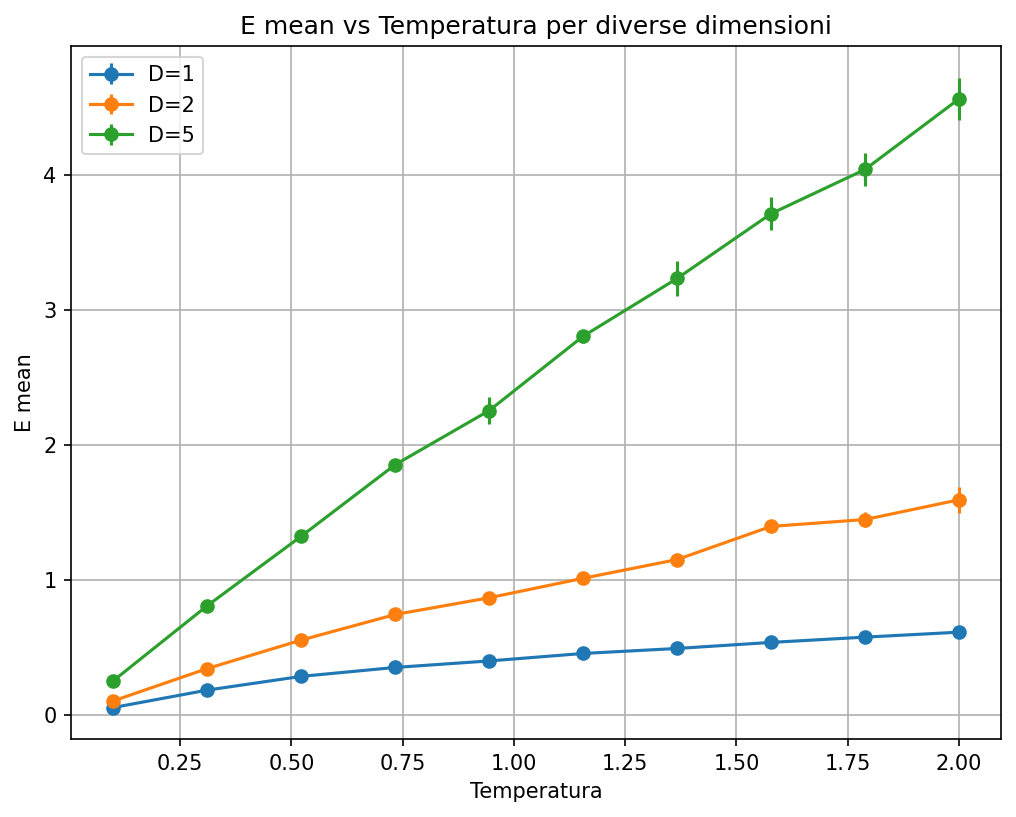
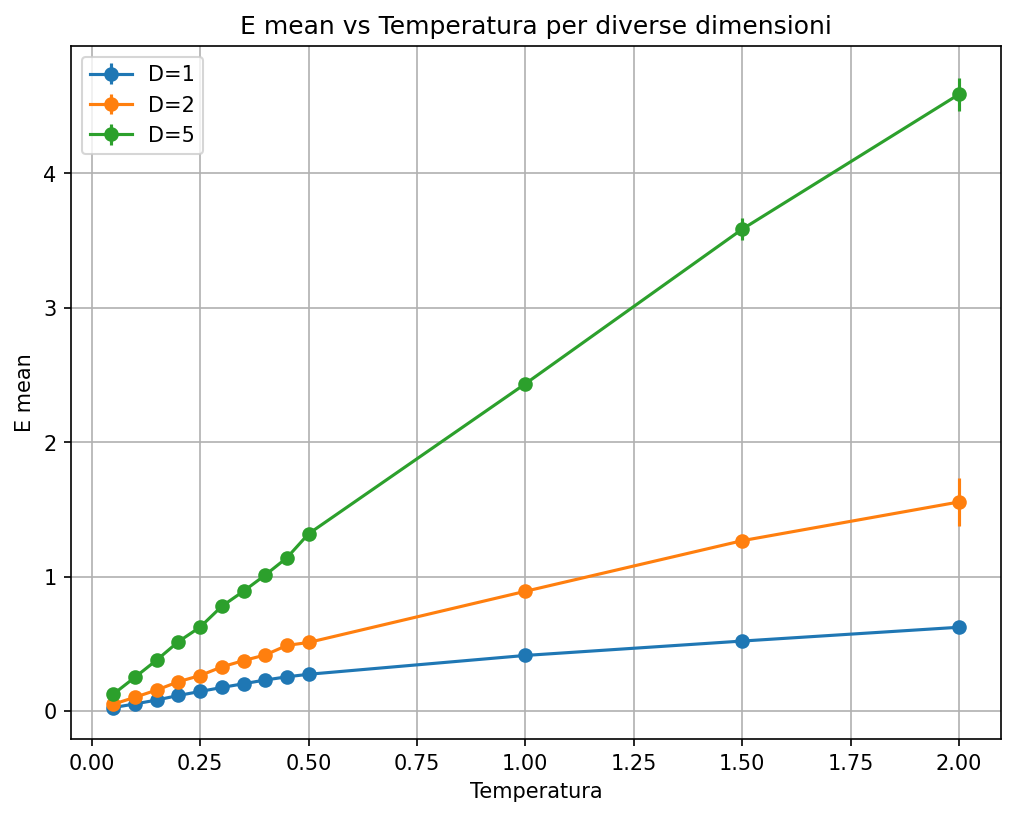
runned

diff --git a/source/main.py b/source/main.py
@@ -7,7 +7,7 @@ import jax.numpy as jnp
 
 def main():
     dimensions = [1, 2, 5]
-    temperatures = jnp.linspace(0.1, 2.0, 10)
+    temperatures = [0.05, 0.1, 0.15, 0.2, 0.25, 0.3, 0.35, 0.4, 0.45, 0.5,1.0, 1.5, 2.0]
     n_thermalization = 10000
     n_steps = 200000
     step_size = 0.1
@@ -17,17 +17,15 @@ def main():
 
     #thermalization example for 3 configurations
     D = 2
-    T = 0.4
+    T = 0.5
 
     key = jax.random.PRNGKey(0)
     x1, key = metro.generate_config(key, D, "ones")
     trajectory1, _, _, _ = metro.run_simulation(key, T, n_thermalization, step_size, x1, a, b)
 
-    key = jax.random.PRNGKey(0)
     x2, key = metro.generate_config(key, D, "-ones")
     trajectory_1, _, _, _ = metro.run_simulation(key, T, n_thermalization, step_size, x2, a, b)
 
-    key = jax.random.PRNGKey(0)
     x3, key = metro.generate_config(key, D, "normal")
     trajectoryR, _, _, _ = metro.run_simulation(key, T, n_thermalization, step_size, x3, a, b)
     
@@ -50,7 +48,6 @@ def main():
             "tau_x": []
         }
 
-        key = jax.random.PRNGKey(0)
         x, key = metro.generate_config(key, D, "ones")
         for T in temperatures:
             

diff --git a/source/plot.py b/source/plot.py
@@ -77,7 +77,7 @@ def plot_obs_D_T(results, dimensions, observable, error=None):
 def plot_trajectory(trajectories, temperatures, dimensions, bins=30):
     _ensure_report_dir()
 
-    fig, axes = plt.subplots(len(dimensions), len(temperatures), figsize=(15, 10))
+    fig, axes = plt.subplots(len(dimensions), len(temperatures), figsize=(25, 15))
 
     for i, D in enumerate(dimensions):
         for j, T in enumerate(temperatures):
